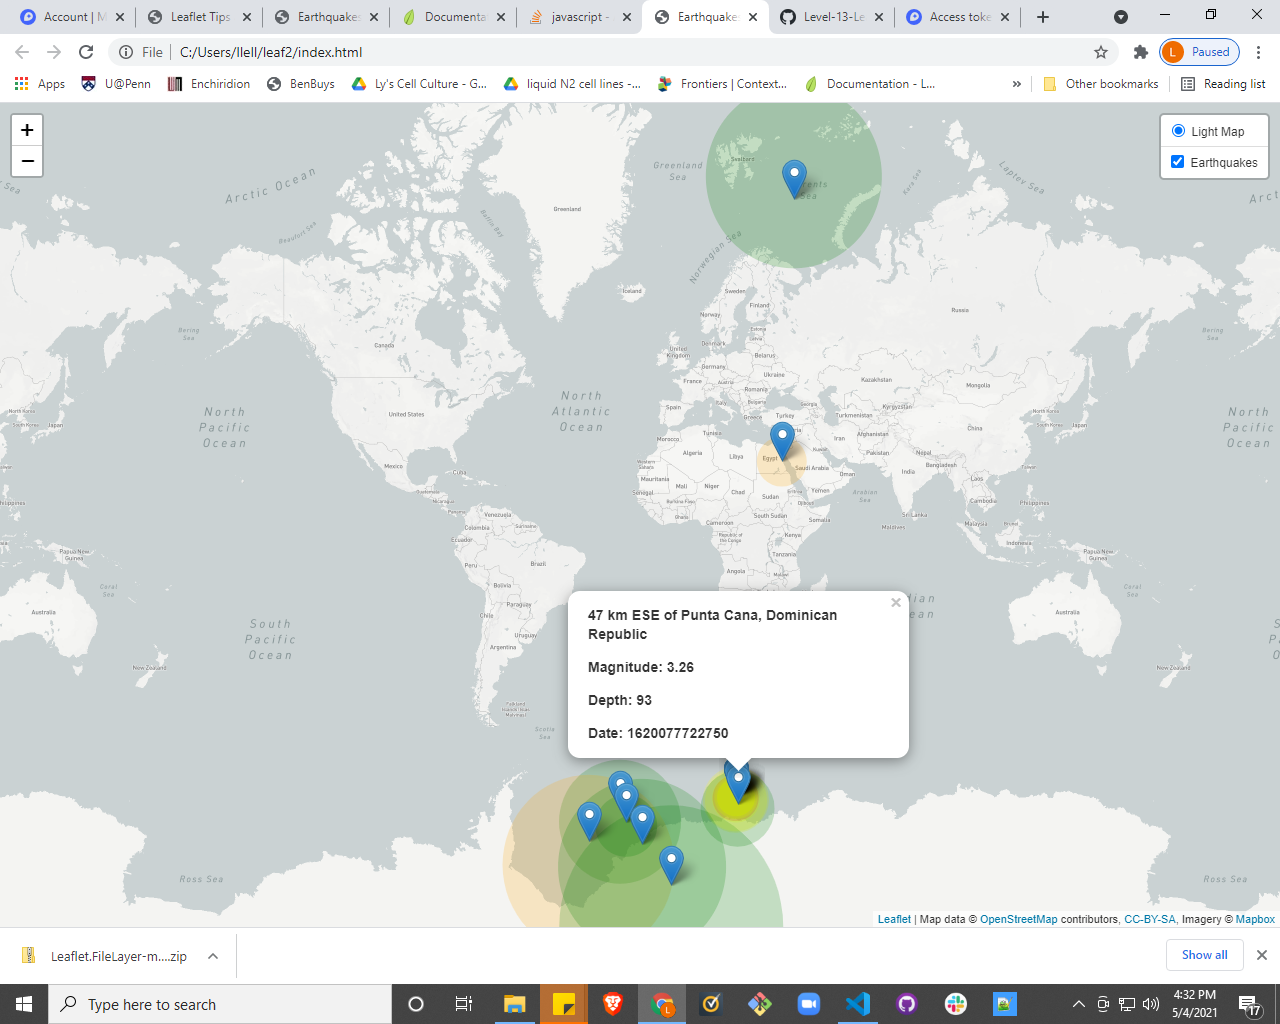
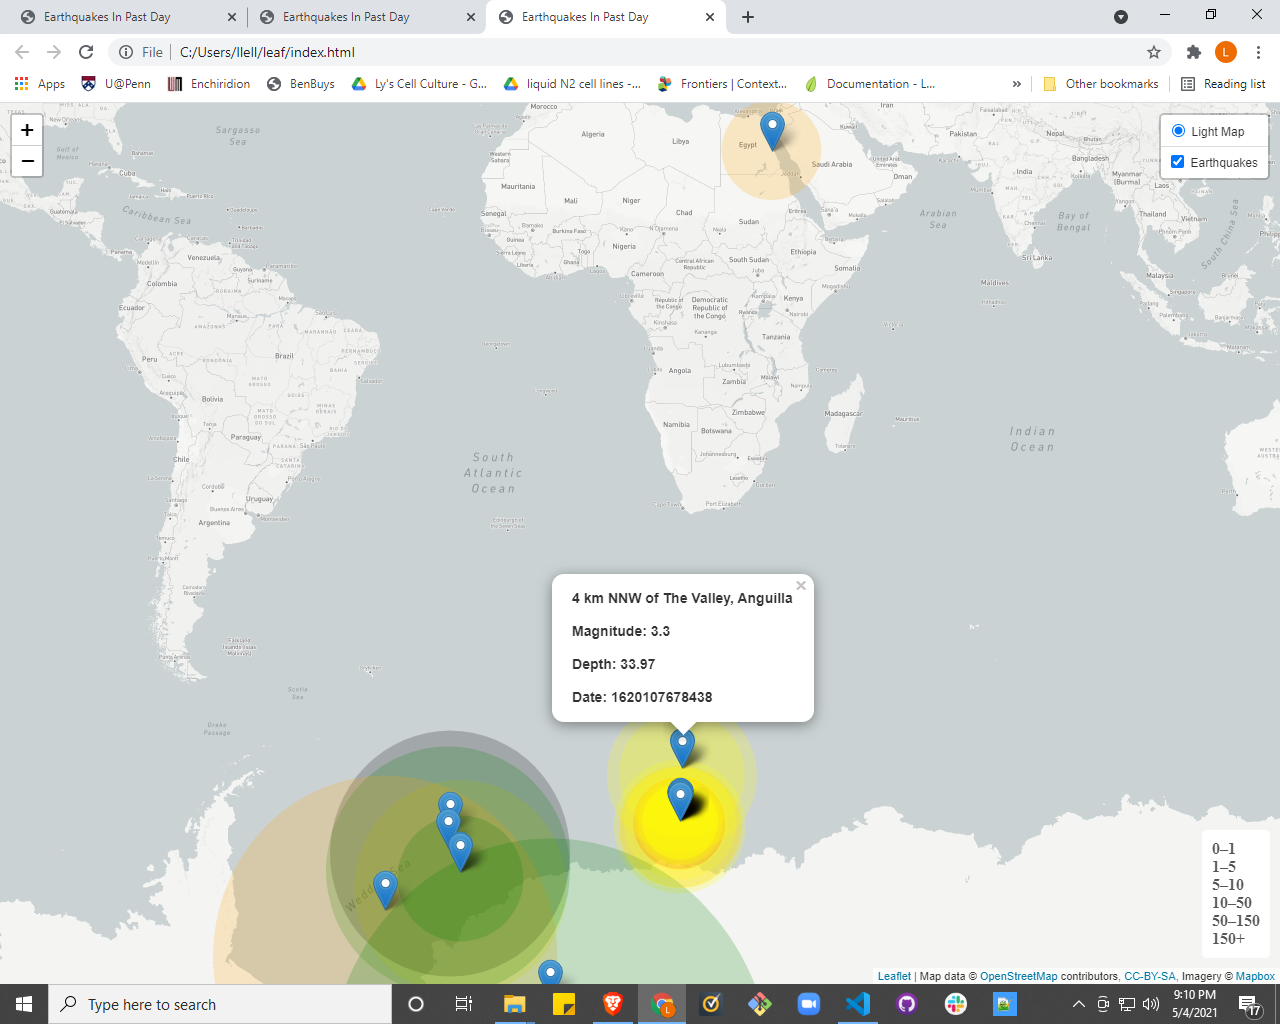
added legend

diff --git a/static/js/logic.js b/static/js/logic.js
@@ -10,6 +10,9 @@ var quakeMarkers = [];
 //Globally accessible quakeCircles array
 var quakeCircles = [];
 
+//Globally Accessible Legend variable
+var legend;
+
 // Perform an API call to the USGS API to get earthquake information. Call createMarkers 
 d3.json(geolink).then(createMarkers);
 
@@ -37,7 +40,7 @@ function createMarkers(response) {
       var quakeCircle = L.circle(location, {
           color: "000000",
           fillColor: quakeColor(depth),
-          opacity: 0.5,
+          opacity: 0.50,
           radius: quakeRadius(mag)
       });
 
@@ -45,7 +48,7 @@ function createMarkers(response) {
 
     }//End of 1st FOR LOOP through geoJSON response object
     
-    // Create layer groups from marker arrays & call map drawing functions
+    // Create a layer group made from the quake markers array, pass to & call createMap
     createMap(L.layerGroup(quakeMarkers));
     addCircles(L.layerGroup(quakeCircles));
 } 
@@ -87,7 +90,9 @@ function createMap(earthquakes) {
 }
 
 function addCircles(quakeCircles){
+  //Add Circles 
   quakeCircles.addTo(myMap);
+  createLegend();
 }
 
 //Circle Marker Radius Function
@@ -110,4 +115,22 @@ function quakeColor(depth) {
   } else {
       return "#000000";
   };
+}
+
+function createLegend(){
+  legend = L.control({position: "bottomright"})
+
+  legend.onAdd = function() {
+    var div = L.DomUtil.create('div', 'legend'),
+      grades = [0, 1, 5, 10, 50, 150],
+      labels = ["Green", "Yellow", "Orange", "Gray", "Black"];
+    // loop through our density intervals and generate a label with a colored square for each interval
+    for (var i = 0; i < grades.length; i++) {
+        div.innerHTML +=
+            '<i style="background:' + 'Legend' + '<p>' + quakeColor(grades[i]) + '"></i> ' +
+            grades[i] + (grades[i + 1] ? '&ndash;' + grades[i + 1] + '<br>' : '+' );
+    }
+    return div;
+  };
+  legend.addTo(myMap);
 }
